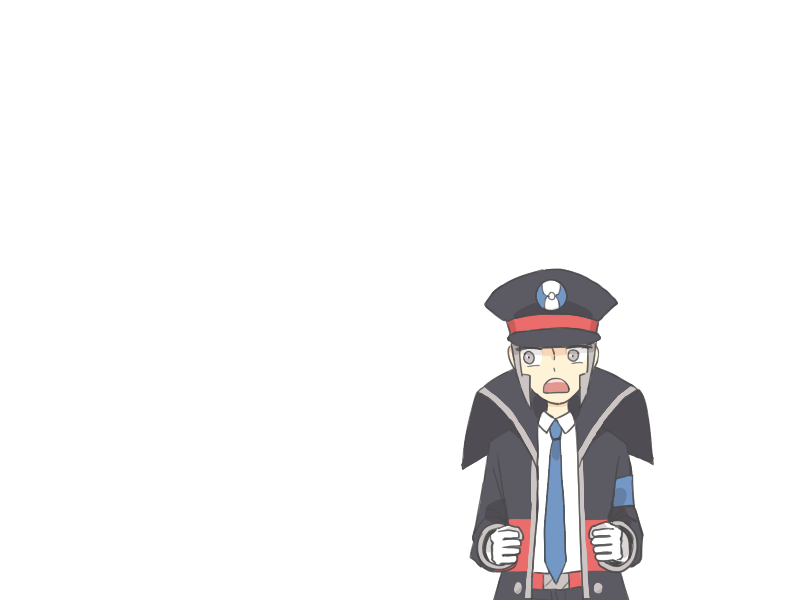
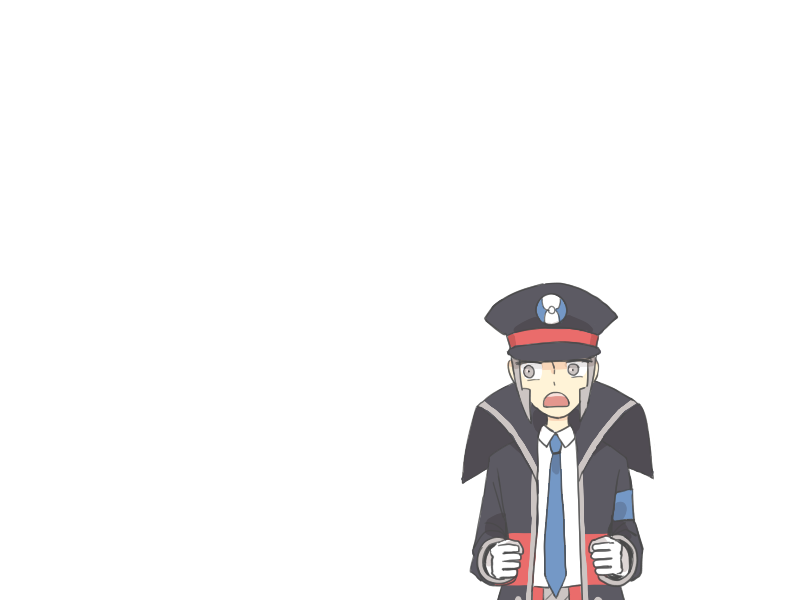
image changed

Changed region(s): [[0.5625, 0.45, 0.8125, 1.0]]

diff --git a/sbms_game/sbms_game.cpp b/sbms_game/sbms_game.cpp
@@ -257,7 +257,7 @@ LRESULT CALLBACK WndProc(HWND hWnd, UINT iMsg, WPARAM wParam, LPARAM lParam)
 							if (choice == 0)
 							{
 								if (wrong_flag == 1)
-									OnPaint(MemDC, WRONG_K, 0, 0);
+									OnPaint(MemDC, WRONG_K_m, 0, 0);
 								else
 									OnPaint(MemDC, nob[0], 0, 0);
 								OnPaint(MemDC, kud[i + 1], 0, 0);
@@ -270,7 +270,7 @@ LRESULT CALLBACK WndProc(HWND hWnd, UINT iMsg, WPARAM wParam, LPARAM lParam)
 							else
 							{
 								if (wrong_flag == 1)
-									OnPaint(MemDC, WRONG_N, 0, 0);
+									OnPaint(MemDC, WRONG_N_m, 0, 0);
 								else
 									OnPaint(MemDC, kud[0], 0, 0);
 								OnPaint(MemDC, nob[i + 1], 0, 0);
@@ -325,12 +325,12 @@ LRESULT CALLBACK WndProc(HWND hWnd, UINT iMsg, WPARAM wParam, LPARAM lParam)
 					{
 						if (choice == 0)
 						{
-							OnPaint(MemDC, WRONG_K, 0, 0);
+							OnPaint(MemDC, WRONG_K_m, 0, 0);
 							OnPaint(MemDC, kud[0], 0, 0);
 						}
 						else
 						{
-							OnPaint(MemDC, WRONG_N, 0, 0);
+							OnPaint(MemDC, WRONG_N_m, 0, 0);
 							OnPaint(MemDC, nob[0], 0, 0);
 						}
 					}
